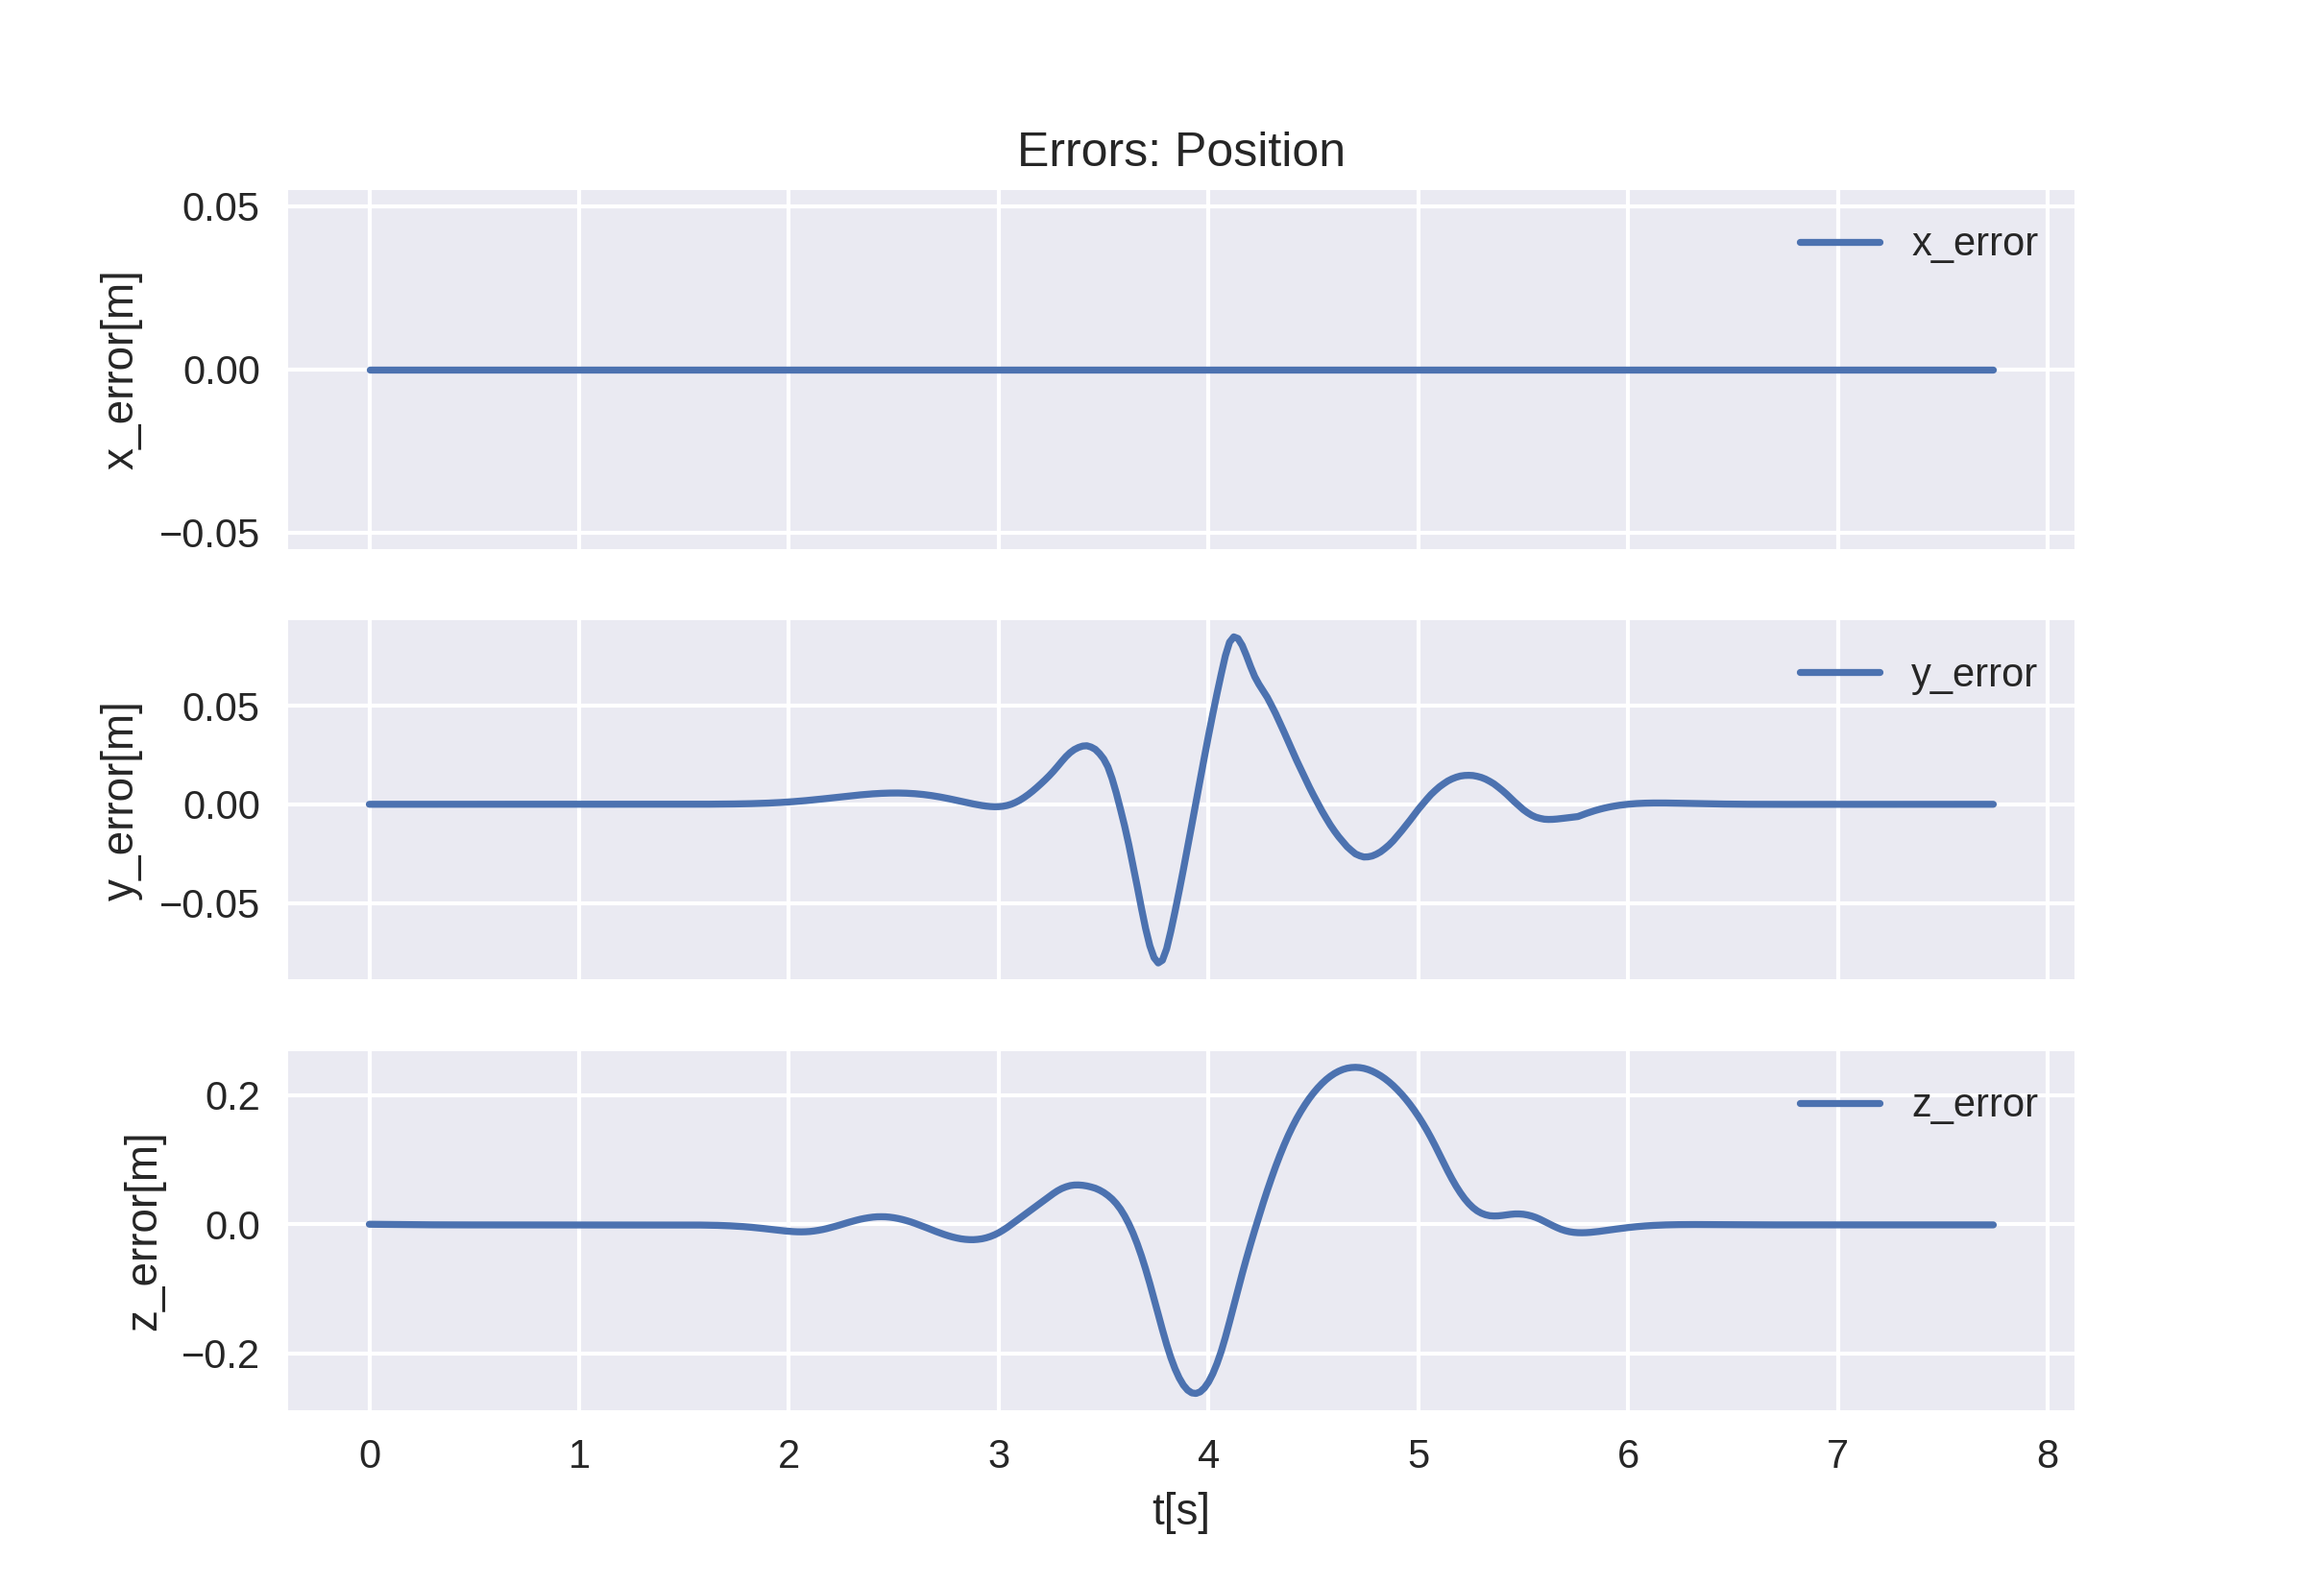
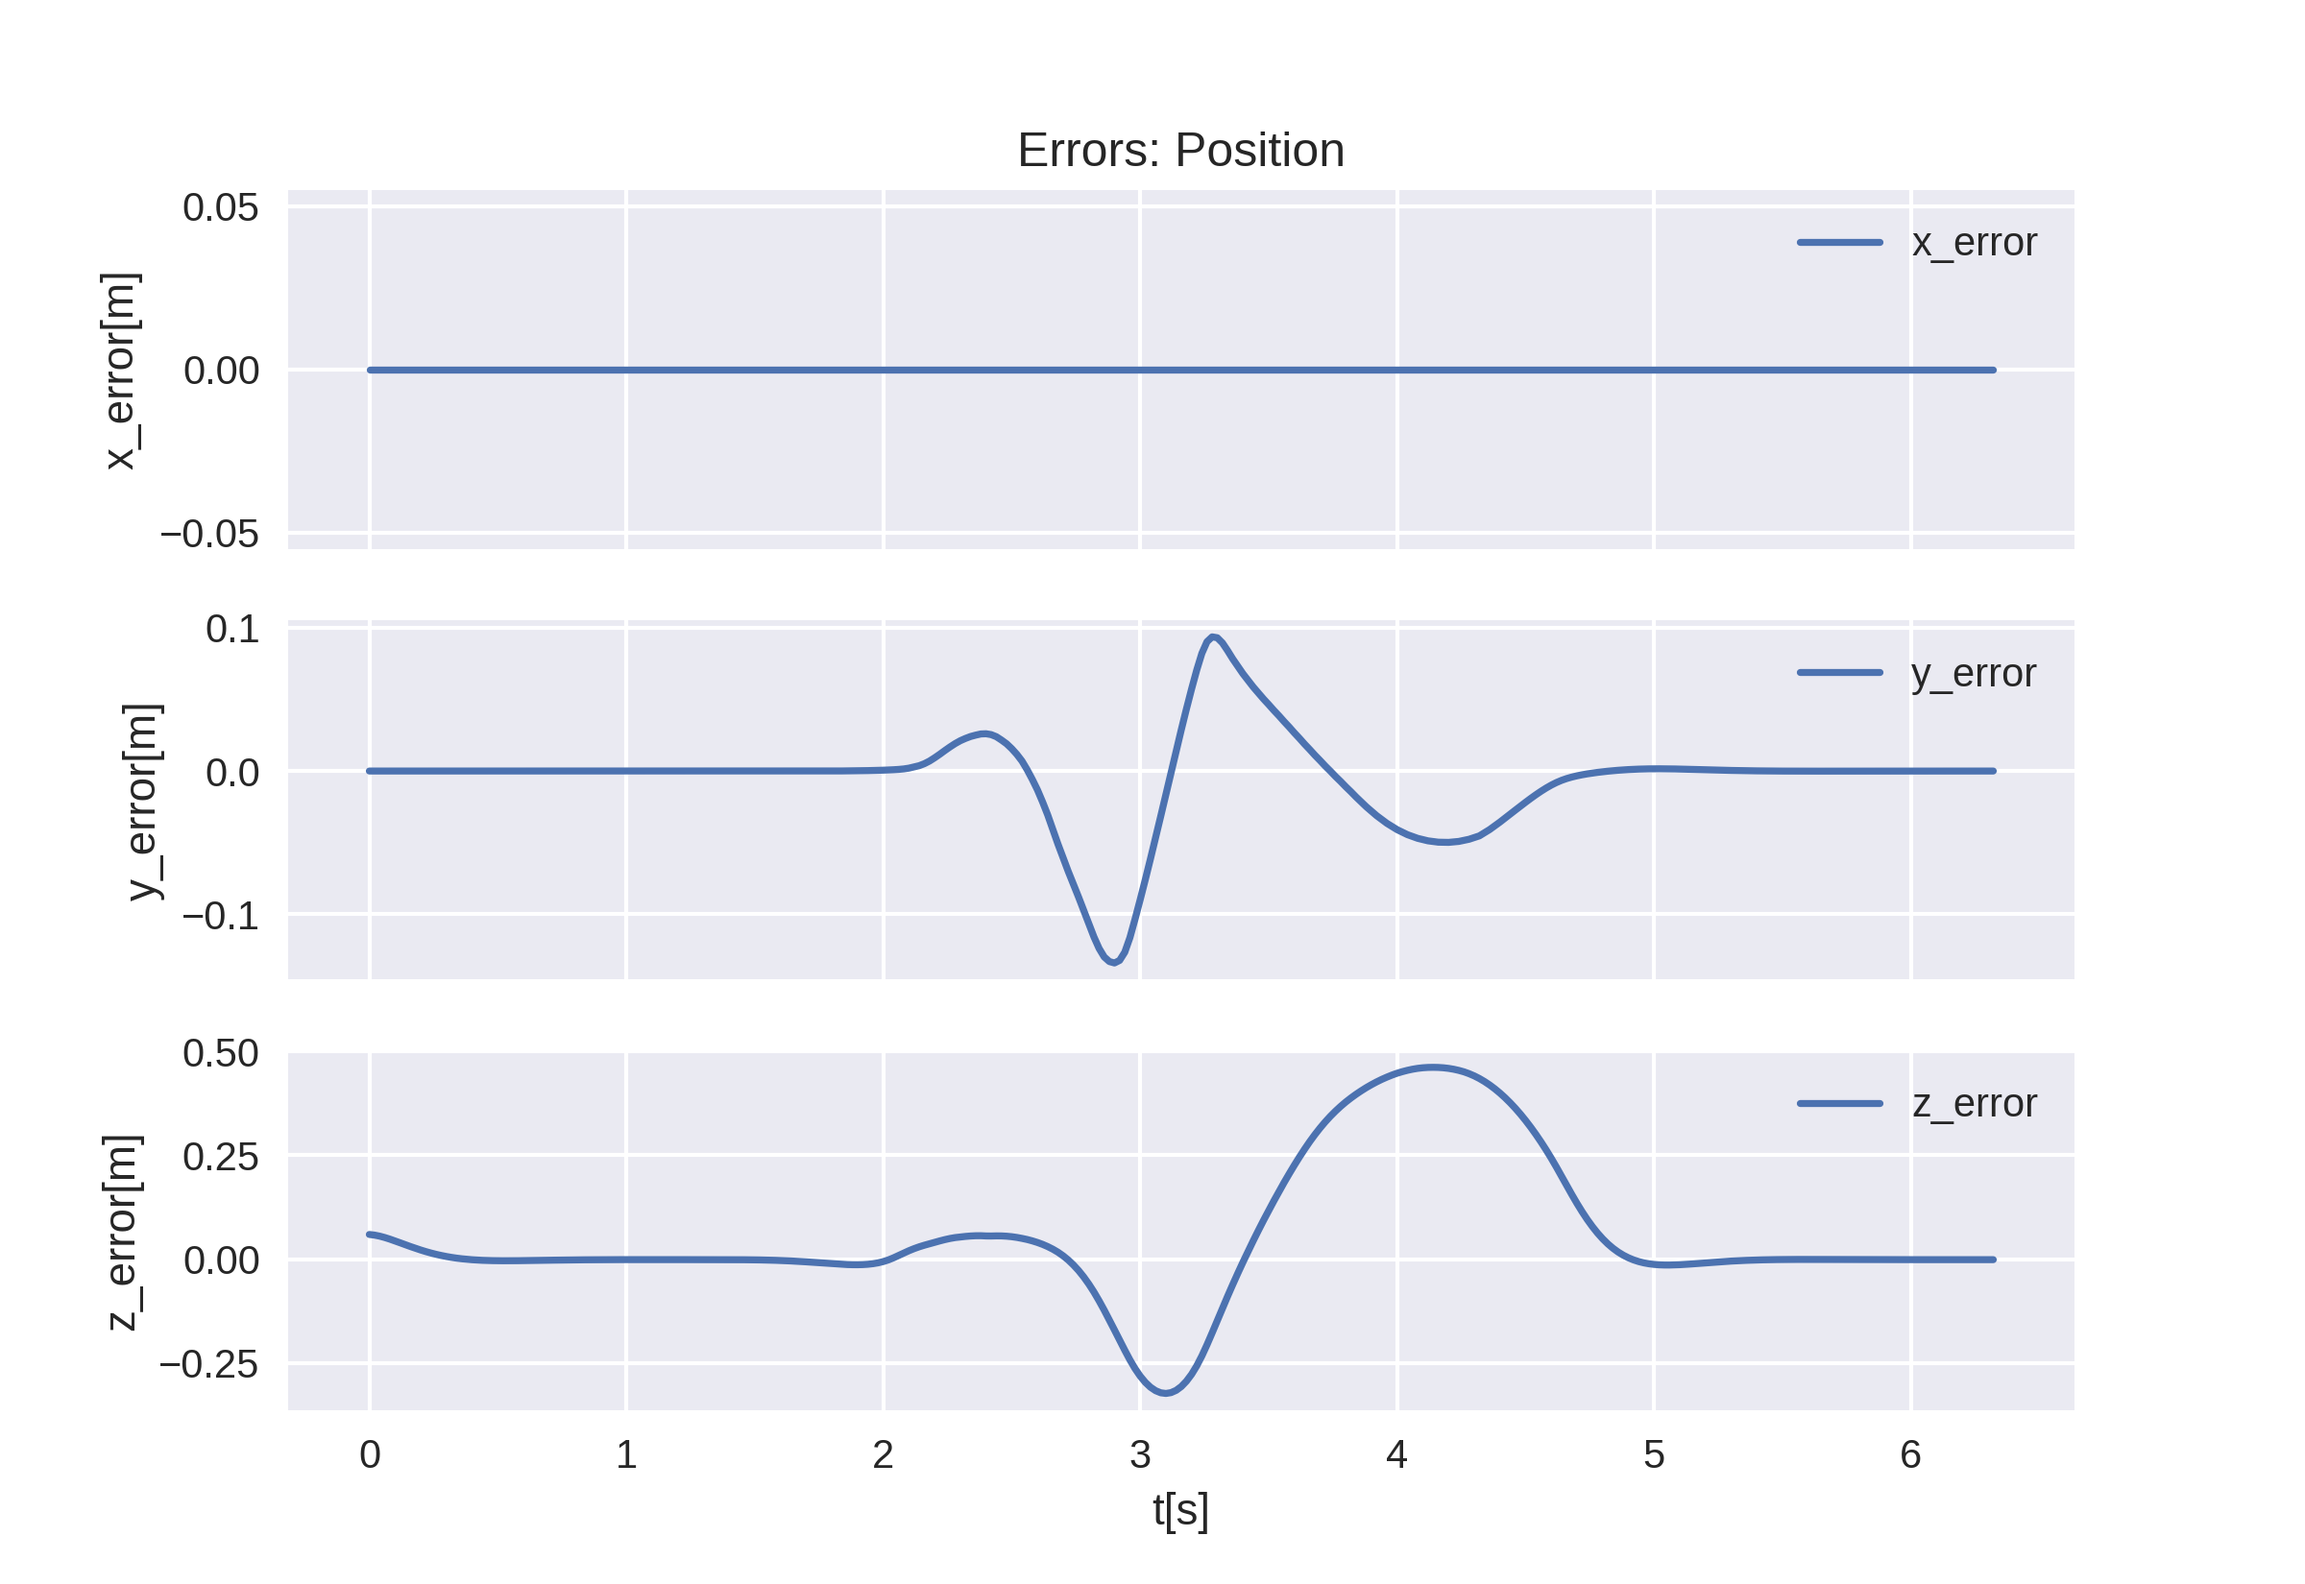
Added generated trajectory with patternsearch

diff --git a/full_mpc/trajectory.py b/full_mpc/trajectory.py
@@ -156,8 +156,11 @@ def trajectory_generotaor3D_with_vel(   x0: np.array,   # initial potision of th
 def readTrajectory(T_hover, N, Ts):
         
     # import csv file of measX and simU (noisy measurement)
-    ref_traj = pd.read_csv('used_data/matlab/presentation_8_data/7_parts/pol_9/J=u1/measX.csv')
-    ref_U = pd.read_csv('used_data/matlab/presentation_8_data/7_parts/pol_9/J=u1/simU.csv')
+    # ref_traj = pd.read_csv('used_data/matlab/presentation_8_data/7_parts/pol_9/J=u1/measX.csv')
+    # ref_U = pd.read_csv('used_data/matlab/presentation_8_data/7_parts/pol_9/J=u1/simU.csv')
+
+    ref_traj = pd.read_csv('used_data/matlab/patternsearch/measX.csv')
+    ref_U = pd.read_csv('used_data/matlab/patternsearch/simU.csv')
     
     # ref_traj = pd.read_csv('used_data/matlab/fmincon5/measX.csv')
     # ref_U = pd.read_csv('used_data/matlab/fmincon5/simU.csv')
